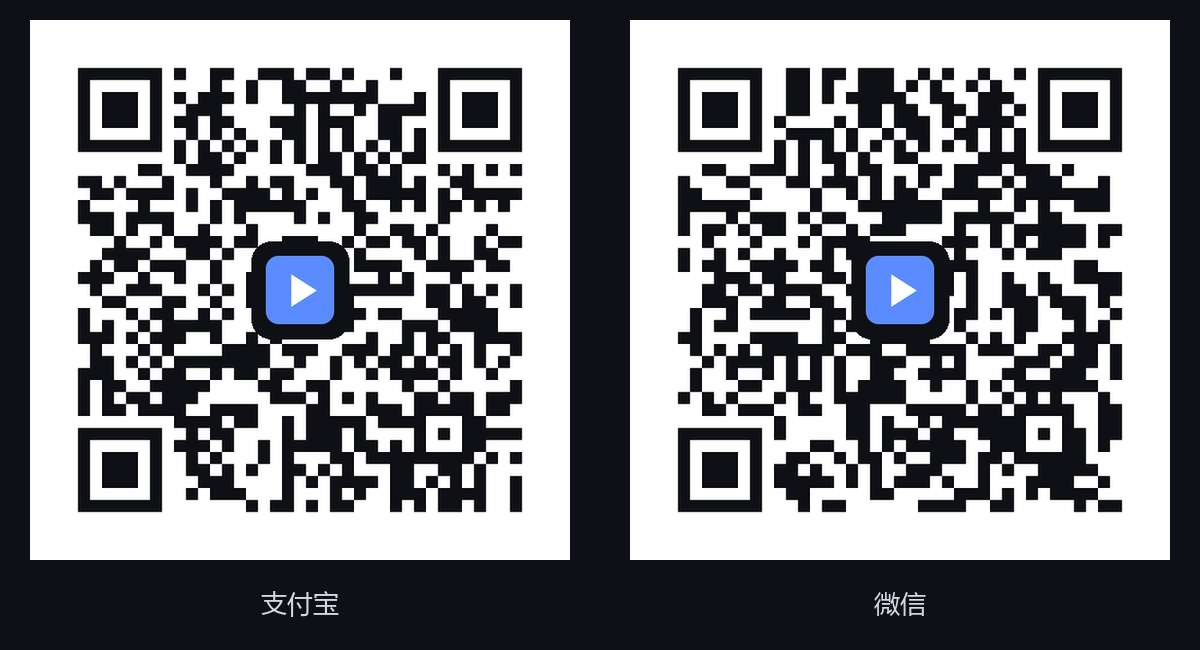
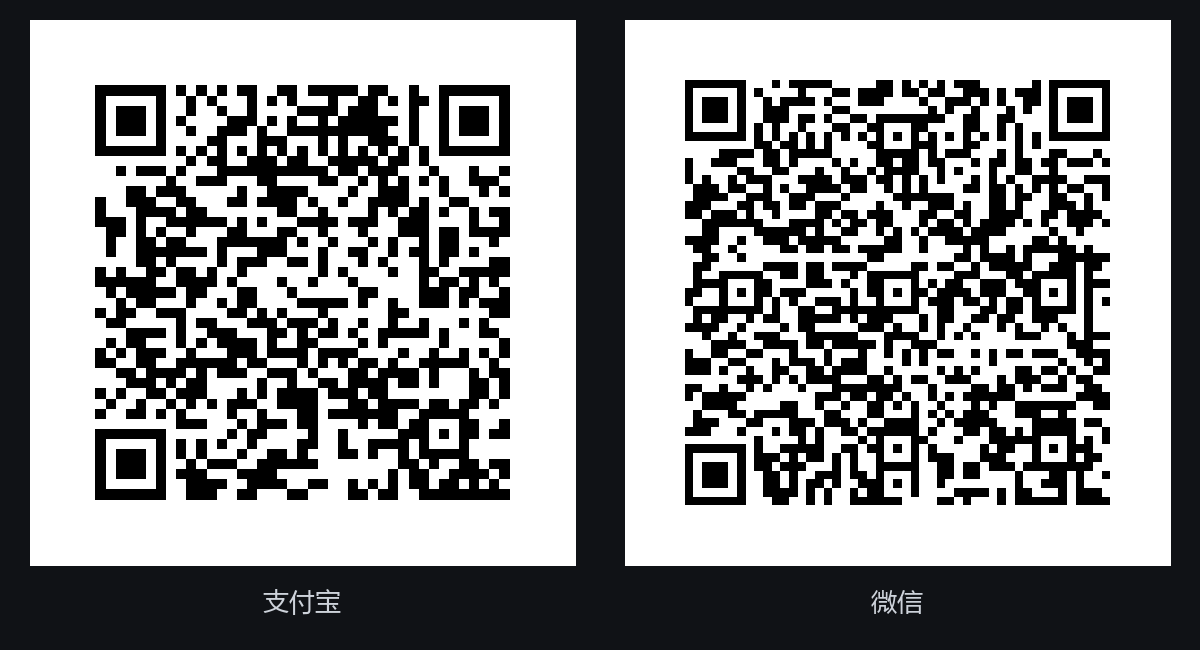
fix: rebuild donate QR codes from full payload, no-store static cache

diff --git a/server.py b/server.py
@@ -84,6 +84,7 @@ CHANGELOG = [
                ("优化", "「测一下服务通不通」现在会验证 Key 是否有效；删掉的 Key 不会再显示“已填可用”。"),
                ("优化", "解析服务教程改成本机 Docker 优先：不用买服务器，装 Docker 就能跑；服务器只是可选。"),
                ("优化", "导入登录 Cookie 不再强制填 UA，粘上保存就能用。"),
+               ("修复", "赞助二维码之前扫不出来，已换成正确的收款码，扫码即可赞赏。"),
                ("说明", "B站继续用登录 Cookie：1080P 需要登录，4K/HDR 需要大会员。")]},
     {"v": "1.5.5", "date": "2026-11-15",
      "items": [("新增", "应用内「赞助」内置支付宝 / 微信赞赏码，可切换；二维码已去掉海报上的姓名与头像。"),
@@ -4165,7 +4166,7 @@ class Handler(http.server.BaseHTTPRequestHandler):
             pass
 
     def serve_static(self, name, ctype):
-        """logo / favicon 这类小图直接读文件返回，带一天缓存。"""
+        """logo / favicon 这类小图直接读文件返回；赞赏码不缓存，换图立即生效。"""
         path = asset(name)
         if not os.path.isfile(path):
             return self._send_text("not found", 404)
@@ -4177,7 +4178,9 @@ class Handler(http.server.BaseHTTPRequestHandler):
         self.send_response(200)
         self.send_header("Content-Type", ctype)
         self.send_header("Content-Length", str(len(body)))
-        self.send_header("Cache-Control", "public, max-age=86400")
+        # 赞赏码可能被随时替换，不能让浏览器缓存一天
+        self.send_header("Cache-Control", "no-store, must-revalidate"
+                         if name.startswith("donate") else "public, max-age=86400")
         self._cors()
         self.end_headers()
         try:

diff --git a/DONATE.md b/DONATE.md
@@ -6,8 +6,8 @@ VideoSaver 是免费开源的。如果它帮到了你，可以请作者喝杯咖
 
 ## 应用内赞赏
 
-顶栏「赞助」已内置支付宝 / 微信两种赞赏码，点一下即可切换。二维码由收款链接重新生成，
-去掉了原海报上的姓名和头像，只保留可扫描的二维码本体和 VideoSaver logo。
+顶栏「赞助」已内置支付宝 / 微信两种赞赏码，点一下即可切换。二维码按原始收款码的内容逐字校验后重新生成，去掉了原海报上的姓名、头像和中心贴片，
+只保留干净的二维码本体，扫码内容与原收款码完全一致。
 
 也可以直接扫这里：
 
